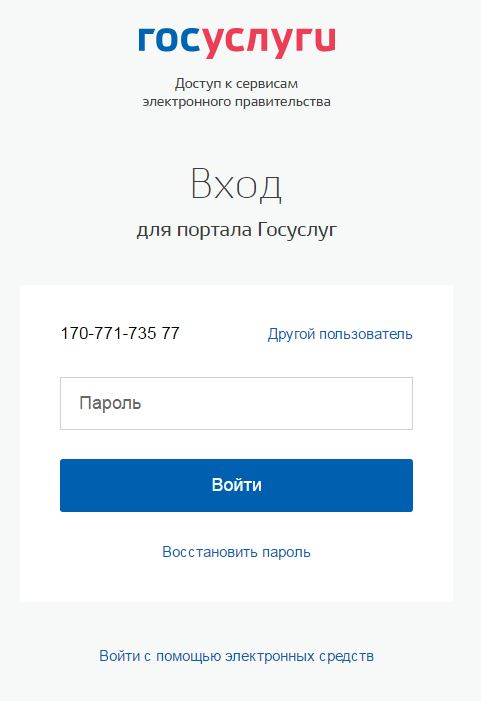
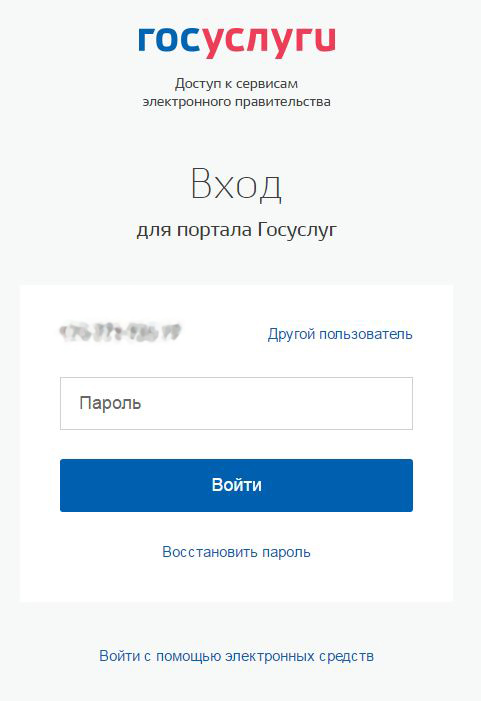
Положено начало раздела навигации, скромное слайдшоу, которое показывает скриншоты с возможными вариантами входа в ЛК на госуслугах

Changed region(s): [[0.1247, 0.4494, 0.3742, 0.5093]]

diff --git a/js/wiki_esia.js b/js/wiki_esia.js
@@ -1,4 +1,8 @@
-var status=0;
+var status0=0;
+var status1=0;
+var status2=0;
+var status3=0;
+var status4=0;
 function show_how(){
     $(".hidden.how").css("display","block");
     $(".hidden.navigation").css("display","none");
@@ -12,139 +16,76 @@ function show_nav(){
     $(".main.how").css("background","rgba(108, 107, 198, 0.3)");
 }
 function first_arrows_rotate(){
-    if(status==0) {
+    if(status0==0) {
         $(".more_info:eq(0)").css("display","block");
         $(".arrow_down:eq(0)").css("transform","rotate(-180deg)");
-        status=1;
+        status0=1;
     }
-    else if (status==1) {
+    else if (status0==1) {
         $(".more_info:eq(0)").css("display","none");
         $(".arrow_down:eq(0)").css("transform","rotate(-360deg)");
-        status=0;
+        status0=0;
     }
 }
 function second_arrows_rotate(){
-    if(status==0) {
+    if(status1==0) {
         $(".more_info:eq(1)").css("display","block");
         $(".arrow_down:eq(1)").css("transform","rotate(-180deg)");
-        status=1;
+        status1=1;
     }
-    else if (status==1) {
+    else if (status1==1) {
         $(".more_info:eq(1)").css("display","none");
         $(".arrow_down:eq(1)").css("transform","rotate(-360deg)");
-        status=0;
+        status1=0;
     }
 }
 function third_arrows_rotate(){
-    if(status==0) {
+    if(status2==0) {
         $(".more_info:eq(2)").css("display","block");
         $(".arrow_down:eq(2)").css("transform","rotate(-180deg)");
-        status=1;
+        status2=1;
     }
-    else if (status==1) {
+    else if (status2==1) {
         $(".more_info:eq(2)").css("display","none");
         $(".arrow_down:eq(2)").css("transform","rotate(-360deg)");
-        status=0;
+        status2=0;
     }
 }
 function fourth_arrows_rotate(){
-    if(status==0) {
+    if(status3==0) {
         $(".more_info:eq(3)").css("display","block");
         $(".arrow_down:eq(3)").css("transform","rotate(-180deg)");
-        status=1;
+        status3=1;
     }
-    else if (status==1) {
+    else if (status3==1) {
         $(".more_info:eq(3)").css("display","none");
         $(".arrow_down:eq(3)").css("transform","rotate(-360deg)");
-        status=0;
+        status3=0;
     }
 }
 function fifth_arrows_rotate(){
-    if(status==0) {
+    if(status4==0) {
         $(".more_info:eq(4)").css("display","block");
         $(".arrow_down:eq(4)").css("transform","rotate(-180deg)");
-        status=1;
+        status4=1;
     }
-    else if (status==1) {
+    else if (status4==1) {
         $(".more_info:eq(4)").css("display","none");
         $(".arrow_down:eq(4)").css("transform","rotate(-360deg)");
-        status=0;
+        status4=0;
     }
 }
-/*var status = 0;
-function show(num) {
-    switch(num) {
-        case 1:
-        document.getElementsByClassName("hidden how")[0].style.display = "block";
-        document.getElementsByClassName("main how")[0].style.background = "#f7605b";
-        document.getElementsByClassName("main navigation")[0].style.background = "rgba(108, 107, 198, 0.3)";
-        document.getElementsByClassName("hidden navigation")[0].style.display = "none";
-        break;
-        case 2:
-        document.getElementsByClassName("hidden how")[0].style.display = "none";
-        document.getElementsByClassName("main navigation")[0].style.background = "#f7605b";
-        document.getElementsByClassName("main how")[0].style.background = "rgba(108, 107, 198, 0.3)";
-        document.getElementsByClassName("hidden navigation")[0].style.display = "block";
-        break;
-    }
-}
-function first_arrows_rotate(num) {
-    if (status==0) {
-        document.getElementsByClassName("more_info")[0].style.display = "block";
-        document.getElementsByClassName("arrow_down")[0].style.transform = "rotate(-180deg)";
-        status=1;
-    }
-    else if (status==1) {
-        document.getElementsByClassName("more_info")[0].style.display = "none";
-        document.getElementsByClassName("arrow_down")[0].style.transform = "rotate(0deg)";
-        status=0;
-    }
-}
-function second_arrows_rotate(num) {
-    if (status==0) {
-        document.getElementsByClassName("more_info")[1].style.display = "block";
-        document.getElementsByClassName("arrow_down")[1].style.transform = "rotate(-180deg)";
-        status=1;
-    }
-    else if (status==1) {
-        document.getElementsByClassName("more_info")[1].style.display = "none";
-        document.getElementsByClassName("arrow_down")[1].style.transform = "rotate(0deg)";
-        status=0;
-    }
-}
-function third_arrows_rotate(num) {
-    if (status==0) {
-        document.getElementsByClassName("more_info")[2].style.display = "block";
-        document.getElementsByClassName("arrow_down")[2].style.transform = "rotate(-180deg)";
-        status=1;
-    }
-    else if (status==1) {
-        document.getElementsByClassName("more_info")[2].style.display = "none";
-        document.getElementsByClassName("arrow_down")[2].style.transform = "rotate(0deg)";
-        status=0;
-    }
-}
-function fourth_arrows_rotate(num) {
-    if (status==0) {
-        document.getElementsByClassName("more_info")[3].style.display = "block";
-        document.getElementsByClassName("arrow_down")[3].style.transform = "rotate(-180deg)";
-        status=1;
-    }
-    else if (status==1) {
-        document.getElementsByClassName("more_info")[3].style.display = "none";
-        document.getElementsByClassName("arrow_down")[3].style.transform = "rotate(0deg)";
-        status=0;
-    }
-}
-function fifth_arrows_rotate(num) {
-    if (status==0) {
-        document.getElementsByClassName("more_info")[4].style.display = "block";
-        document.getElementsByClassName("arrow_down")[4].style.transform = "rotate(-180deg)";
-        status=1;
-    }
-    else if (status==1) {
-        document.getElementsByClassName("more_info")[4].style.display = "none";
-        document.getElementsByClassName("arrow_down")[4].style.transform = "rotate(0deg)";
-        status=0;
-    }
-}*/
+$(document).on('click', '.navigation ul li:first', function() {
+    if($('.gosuslugi_intro_v1').hasClass('hide_image')&& $('.gosuslugi_intro_v2').hasClass('hide_image')&& $('.gosuslugi_intro_v3').hasClass('hide_image')) {
+        console.log("v1");
+        $('.hide_image.gosuslugi_intro_v1').toggleClass('hide_image show_image');}
+    else if($('.gosuslugi_intro_v1').hasClass('show_image')) {
+        console.log("v2");
+        $('.show_image.gosuslugi_intro_v1').toggleClass('show_image hide_image');
+        $('.gosuslugi_intro_v2').toggleClass('hide_image show_image');}
+    else if($('.gosuslugi_intro_v2').hasClass('show_image')) {
+        console.log("v3");
+        $('.show_image.gosuslugi_intro_v2').toggleClass('show_image hide_image');
+        $('.gosuslugi_intro_v3').toggleClass('hide_image show_image');}
+    else $('.gosuslugi_intro_v3').toggleClass('hide_image show_image');
+});

diff --git a/wiki_esia.html b/wiki_esia.html
@@ -39,10 +39,24 @@
                <li onclick="fifth_arrows_rotate()">Подтверждённая с актуальными данными <img src="img/arrow_down.gif" class="arrow_down"><br>
                <span class="more_info">Учётная запись полностью функциональна, говорим об этом посетителю и завершаем обслуживание</span>
                </li>
+               <hr>
            </ul>
        </div>
        <div class="hidden navigation">
-           Раздел в разработке
+           <ul>Личный кабинет
+               <li class="navigation_enter">Вход в личный кабинет
+                   <img src="img/gosuslugi_intro_v1.jpg" class="hide_image gosuslugi_intro_v1">
+                   <img src="img/gosuslugi_intro_v2.jpg" class="hide_image gosuslugi_intro_v2">
+                   <img src="img/gosuslugi_intro_v3.jpg" class="hide_image gosuslugi_intro_v3">
+               </li>
+               <hr>
+               <li>Первые действия после регистрации/восстановления через АИС</li>
+               <hr>
+               <li>Персональные данные</li>
+               <hr>
+               <li>Управление учётной записью (удаление, смена пароля, защищённый вход и пр.)</li>
+               <hr>
+           </ul>
        </div>
    </body>
 </html>

diff --git a/css/wiki_esia.css b/css/wiki_esia.css
@@ -15,8 +15,11 @@ body {
     transition-duration: 0.7s;
     box-shadow: inset 0 0 5px 3px #7c1d45;
 }
-.hidden ul li {
+.hidden.how ul li {
     list-style: decimal inside;
+}
+ul, ul li {
+    width: 600px;
 }
 .more_info {
     display: none;
@@ -26,15 +29,12 @@ body {
     font-size: 18px;
     padding: 10px;
 }
-li {
+ul, li {
     cursor: pointer;
 }
 .arrow_down {
     transition-duration: 0.5s;
     transition-timing-function: ease-in;
-}
-span {
-    z-index: 10;
 }
 .hidden {
     display: none;
@@ -42,4 +42,13 @@ span {
 hr {
     width: 570px;
     margin-left: 0;
+}
+.hide_image {
+    display: none;
+}
+.show_image {
+    display: block;
+}
+ul li .show_image::after {
+    content: url('img/next.png');
 }
